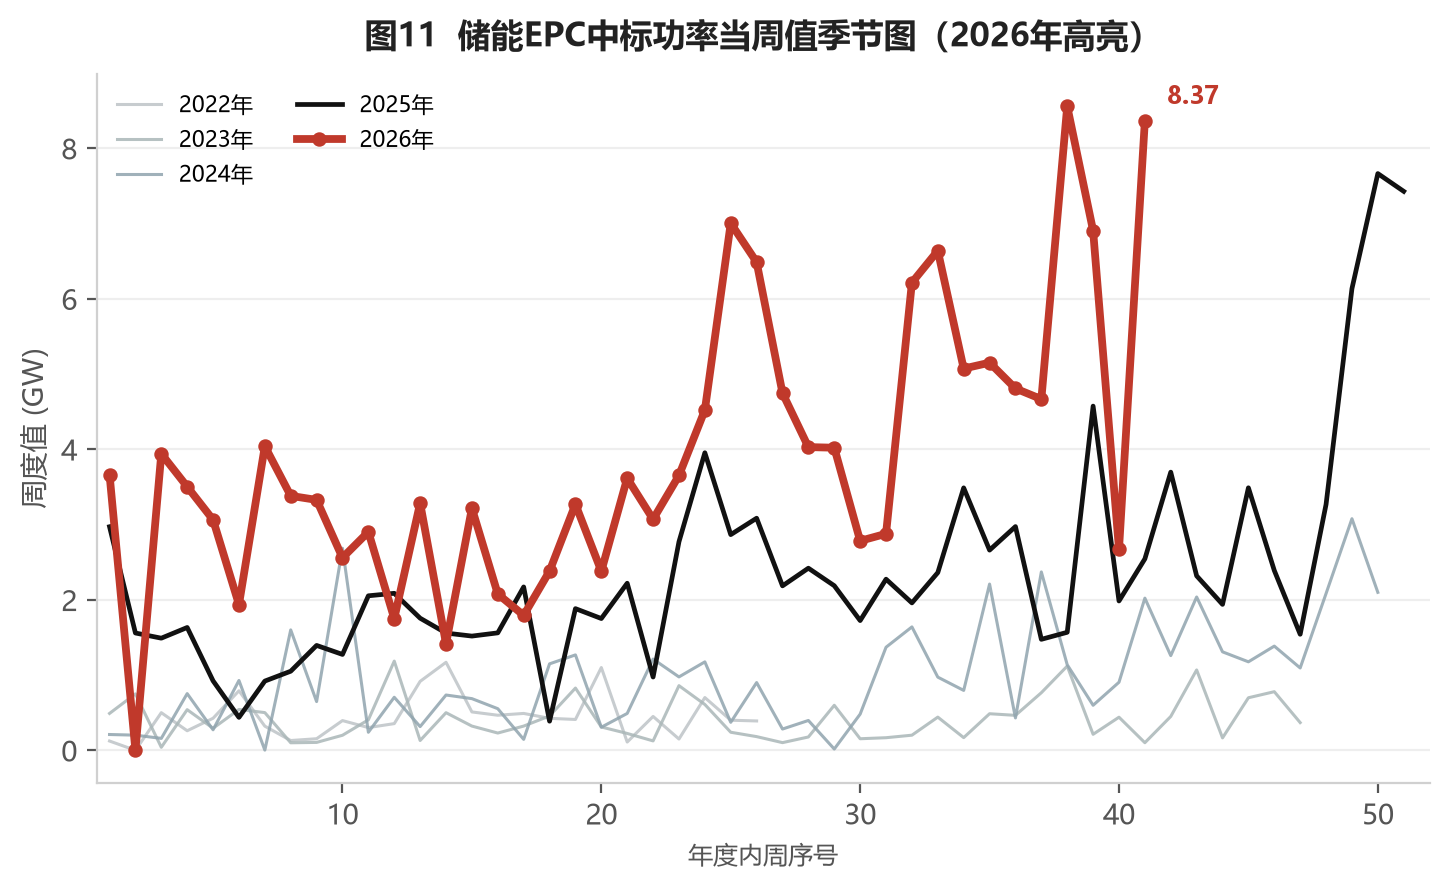
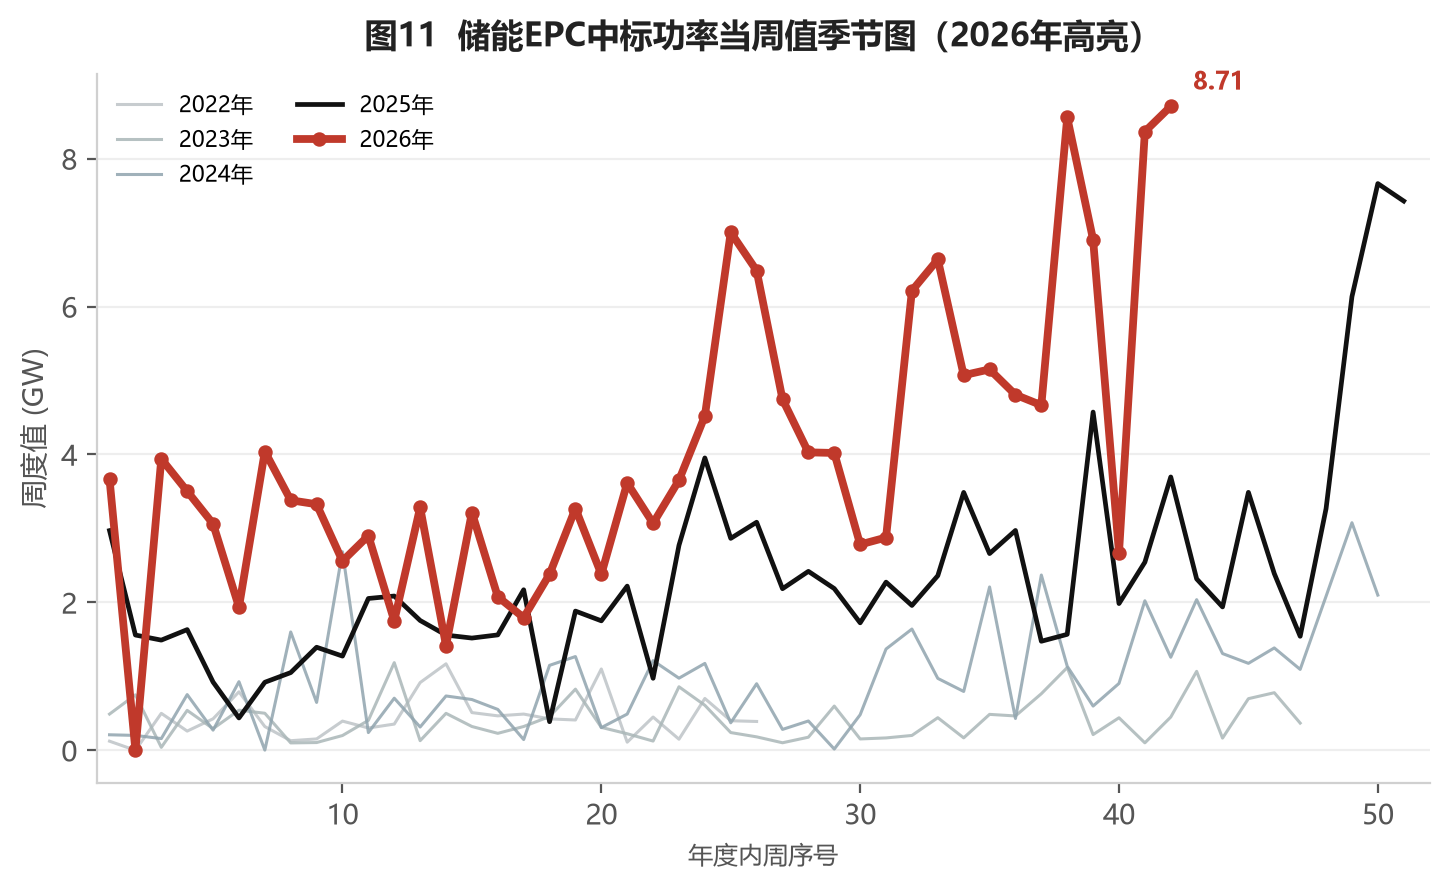
update weekly report 2026-10-25

diff --git a/docs/index.html b/docs/index.html
@@ -3,7 +3,7 @@
 <head>
 <meta charset="UTF-8" />
 <meta name="viewport" content="width=device-width, initial-scale=1.0" />
-<title>储能行业周报 · 储能招中标板块（2026-10-16）</title>
+<title>储能行业周报 · 储能招中标板块（2026-10-23）</title>
 <meta name="description" content="储能行业周度招中标数据报告：周度规模、累计规模、EPC/系统分项、中标价格走势。" />
 <style>
 :root {
@@ -52,13 +52,13 @@ footer{text-align:center;color:var(--muted);font-size:12px;padding:26px 0;
 <header class="hero">
   <div class="container">
     <h1>储能行业周报 · 储能招中标板块</h1>
-    <div class="meta">数据周期：2022-07-01 ~ 2026-10-16 · 本周：2026-10-10 至 2026-10-16（2026年第41周）· 共 215 周数据 · 生成于 2026-10-18 21:47:13</div>
+    <div class="meta">数据周期：2022-07-01 ~ 2026-10-23 · 本周：2026-10-17 至 2026-10-23（2026年第42周）· 共 216 周数据 · 生成于 2026-10-25 20:38:14</div>
   </div>
 </header>
 <div class="container">
     <section class="sec">
       <h2>一、中国|储能周度招中标</h2>
-      <div class="desc"><p class="d">本周：2026-10-10 至 2026-10-16</p><p class="d">招标项目 <b>22</b> 个，规模合计 <b>2.66</b>GW/<b>19.24</b>GWh，环比 <span class="chg up">+38.4%</span>/<span class="chg up">+246.2%</span>，同比 <span class="chg up">+62.2%</span>/<span class="chg up">+225.8%</span>。</p><p class="d">中标项目 <b>52</b> 个，规模合计 <b>8.71</b>GW/<b>31.15</b>GWh，环比 <span class="chg up">+189.0%</span>/<span class="chg up">+274.3%</span>，同比 <span class="chg up">+103.9%</span>/<span class="chg up">+117.2%</span>。</p></div>
+      <div class="desc"><p class="d">本周：2026-10-17 至 2026-10-23</p><p class="d">招标项目 <b>18</b> 个，规模合计 <b>2.02</b>GW/<b>5.37</b>GWh，环比 <span class="chg down">-24.2%</span>/<span class="chg down">-72.1%</span>，同比 <span class="chg down">-12.9%</span>/<span class="chg up">+4.7%</span>。</p><p class="d">中标项目 <b>41</b> 个，规模合计 <b>9.01</b>GW/<b>25.88</b>GWh，环比 <span class="chg up">+3.4%</span>/<span class="chg down">-16.9%</span>，同比 <span class="chg up">+116.7%</span>/<span class="chg up">+133.8%</span>。</p></div>
       <div class="charts">
       <figure class="fig"><img src="assets/images/fig_01.png" alt="图1：储能合计招标功率当周值季节图" loading="lazy" /></figure>
       <figure class="fig"><img src="assets/images/fig_02.png" alt="图2：储能合计中标功率当周值季节图" loading="lazy" /></figure>
@@ -69,7 +69,7 @@ footer{text-align:center;color:var(--muted);font-size:12px;padding:26px 0;
 
     <section class="sec">
       <h2>二、中国|储能周度招中标（累计）</h2>
-      <div class="desc"><p class="d">截至 2026-10-16</p><p class="d">招标累计规模 <b>167.52</b>GW/<b>587.51</b>GWh，环比 <span class="chg up">+1.6%</span>/<span class="chg up">+3.4%</span>，同比 <span class="chg up">+106.0%</span>/<span class="chg up">+130.7%</span>。</p><p class="d">中标累计规模 <b>191.54</b>GW/<b>722.98</b>GWh，环比 <span class="chg up">+4.8%</span>/<span class="chg up">+4.5%</span>，同比 <span class="chg up">+48.6%</span>/<span class="chg up">+54.9%</span>。</p></div>
+      <div class="desc"><p class="d">截至 2026-10-23</p><p class="d">招标累计规模 <b>169.53</b>GW/<b>592.89</b>GWh，环比 <span class="chg up">+1.2%</span>/<span class="chg up">+0.9%</span>，同比 <span class="chg up">+102.7%</span>/<span class="chg up">+128.2%</span>。</p><p class="d">中标累计规模 <b>200.55</b>GW/<b>748.86</b>GWh，环比 <span class="chg up">+4.7%</span>/<span class="chg up">+3.6%</span>，同比 <span class="chg up">+50.7%</span>/<span class="chg up">+56.8%</span>。</p></div>
       <div class="charts">
       <figure class="fig"><img src="assets/images/fig_05.png" alt="图5：储能合计招标功率YTD值季节图" loading="lazy" /></figure>
       <figure class="fig"><img src="assets/images/fig_06.png" alt="图6：储能合计中标功率YTD值季节图" loading="lazy" /></figure>
@@ -80,7 +80,7 @@ footer{text-align:center;color:var(--muted);font-size:12px;padding:26px 0;
 
     <section class="sec">
       <h2>三、储能EPC招中标规模（周度）</h2>
-      <div class="desc"><p class="d">本周：2026-10-10 至 2026-10-16</p><p class="d">储能EPC<b>招标</b>：<b>2.66</b>GW/<b>9.24</b>GWh，环比 <span class="chg up">+64.4%</span>/<span class="chg up">+100.4%</span>，同比 <span class="chg up">+74.0%</span>/<span class="chg up">+115.6%</span>；本年累计<b>招标</b> <b>139.38</b>GW/<b>410.68</b>GWh，同比 <span class="chg up">+114.8%</span>/<span class="chg up">+122.7%</span>。</p><p class="d">储能EPC<b>中标</b>：<b>8.37</b>GW/<b>27.28</b>GWh，环比 <span class="chg up">+213.2%</span>/<span class="chg up">+284.8%</span>，同比 <span class="chg up">+228.9%</span>/<span class="chg up">+284.9%</span>；本年累计<b>中标</b> <b>159.73</b>GW/<b>470.65</b>GWh，同比 <span class="chg up">+93.3%</span>/<span class="chg up">+100.3%</span>。</p></div>
+      <div class="desc"><p class="d">本周：2026-10-17 至 2026-10-23</p><p class="d">储能EPC<b>招标</b>：<b>1.82</b>GW/<b>4.97</b>GWh，环比 <span class="chg down">-31.6%</span>/<span class="chg down">-46.2%</span>，同比 <span class="chg down">-15.9%</span>/<span class="chg down">-6.6%</span>；本年累计<b>招标</b> <b>141.20</b>GW/<b>415.66</b>GWh，同比 <span class="chg up">+110.6%</span>/<span class="chg up">+119.1%</span>。</p><p class="d">储能EPC<b>中标</b>：<b>8.71</b>GW/<b>25.28</b>GWh，环比 <span class="chg up">+4.1%</span>/<span class="chg down">-7.3%</span>，同比 <span class="chg up">+135.6%</span>/<span class="chg up">+171.2%</span>；本年累计<b>中标</b> <b>168.44</b>GW/<b>495.93</b>GWh，同比 <span class="chg up">+95.2%</span>/<span class="chg up">+103.1%</span>。</p></div>
       <div class="charts cols4">
       <figure class="fig"><img src="assets/images/fig_09.png" alt="图9：储能EPC招标功率当周值季节图" loading="lazy" /></figure>
       <figure class="fig"><img src="assets/images/fig_10.png" alt="图10：储能EPC招标功率YTD值季节图" loading="lazy" /></figure>
@@ -95,7 +95,7 @@ footer{text-align:center;color:var(--muted);font-size:12px;padding:26px 0;
 
     <section class="sec">
       <h2>四、储能系统招中标规模（周度）</h2>
-      <div class="desc"><p class="d">本周：2026-10-10 至 2026-10-16</p><p class="d">储能系统<b>招标</b>：<b>0.00</b>GW/<b>10.00</b>GWh，环比 <span class="chg down">-99.2%</span>/<span class="chg up">+955.5%</span>，同比 <span class="chg down">-98.0%</span>/<span class="chg up">+517.4%</span>；本年累计<b>招标</b> <b>24.93</b>GW/<b>143.80</b>GWh，同比 <span class="chg up">+48.7%</span>/<span class="chg up">+104.6%</span>。</p><p class="d">储能系统<b>中标</b>：<b>0.34</b>GW/<b>3.87</b>GWh，环比 <span class="chg up">+0.1%</span>/<span class="chg up">+214.2%</span>，同比 <span class="chg down">-80.2%</span>/<span class="chg down">-46.7%</span>；本年累计<b>中标</b> <b>29.07</b>GW/<b>207.20</b>GWh，同比 <span class="chg down">-37.4%</span>/<span class="chg down">-17.4%</span>。</p></div>
+      <div class="desc"><p class="d">本周：2026-10-17 至 2026-10-23</p><p class="d">储能系统<b>招标</b>：<b>0.20</b>GW/<b>0.40</b>GWh，环比 <span class="chg up">+8595.6%</span>/<span class="chg down">-96.0%</span>，同比 <span class="chg up">+28.9%</span>/<span class="chg up">+28.9%</span>；本年累计<b>招标</b> <b>25.13</b>GW/<b>144.20</b>GWh，同比 <span class="chg up">+48.5%</span>/<span class="chg up">+104.2%</span>。</p><p class="d">储能系统<b>中标</b>：<b>0.30</b>GW/<b>0.60</b>GWh，环比 <span class="chg down">-12.2%</span>/<span class="chg down">-84.5%</span>，同比 <span class="chg down">-35.0%</span>/<span class="chg down">-65.7%</span>；本年累计<b>中标</b> <b>29.37</b>GW/<b>207.80</b>GWh，同比 <span class="chg down">-37.3%</span>/<span class="chg down">-17.7%</span>。</p></div>
       <div class="charts cols4">
       <figure class="fig"><img src="assets/images/fig_17.png" alt="图17：储能系统招标功率当周值季节图" loading="lazy" /></figure>
       <figure class="fig"><img src="assets/images/fig_18.png" alt="图18：储能系统招标功率YTD值季节图" loading="lazy" /></figure>
@@ -110,7 +110,7 @@ footer{text-align:center;color:var(--muted);font-size:12px;padding:26px 0;
 
     <section class="sec">
       <h2>五、储能价格（周度）</h2>
-      <div class="desc"><p class="d">本周：2026-10-10 至 2026-10-16</p><p class="d">储能EPC中标报价区间：【<b>0.6308</b>-<b>1.2496</b>】元/Wh，储能EPC中标均价 <b>0.9724</b> 元/Wh（环比 <span class="chg up">+3.1%</span>，同比 <span class="chg up">+16.9%</span>）。</p><p class="d">储能系统中标报价区间：【<b>0.4995</b>-<b>1.3720</b>】元/Wh，储能系统中标均价 <b>0.6459</b> 元/Wh（环比 <span class="chg down">-49.8%</span>，同比 <span class="chg up">+8.9%</span>）。</p></div>
+      <div class="desc"><p class="d">本周：2026-10-17 至 2026-10-23</p><p class="d">储能EPC中标报价区间：【<b>0.7416</b>-<b>1.1968</b>】元/Wh，储能EPC中标均价 <b>0.9713</b> 元/Wh（环比 <span class="chg down">-0.1%</span>，同比 <span class="chg up">+11.6%</span>）。</p><p class="d">储能系统中标报价区间：【<b>0.5400</b>-<b>0.5725</b>】元/Wh，储能系统中标均价 <b>0.5653</b> 元/Wh（环比 <span class="chg down">-12.5%</span>，同比 <span class="chg up">+9.3%</span>）。</p></div>
       <div class="charts">
       <figure class="fig"><img src="assets/images/fig_25.png" alt="图25：储能系统中标均价季节图" loading="lazy" /></figure>
       <figure class="fig"><img src="assets/images/fig_26.png" alt="图26：储能EPC中标均价季节图" loading="lazy" /></figure>
